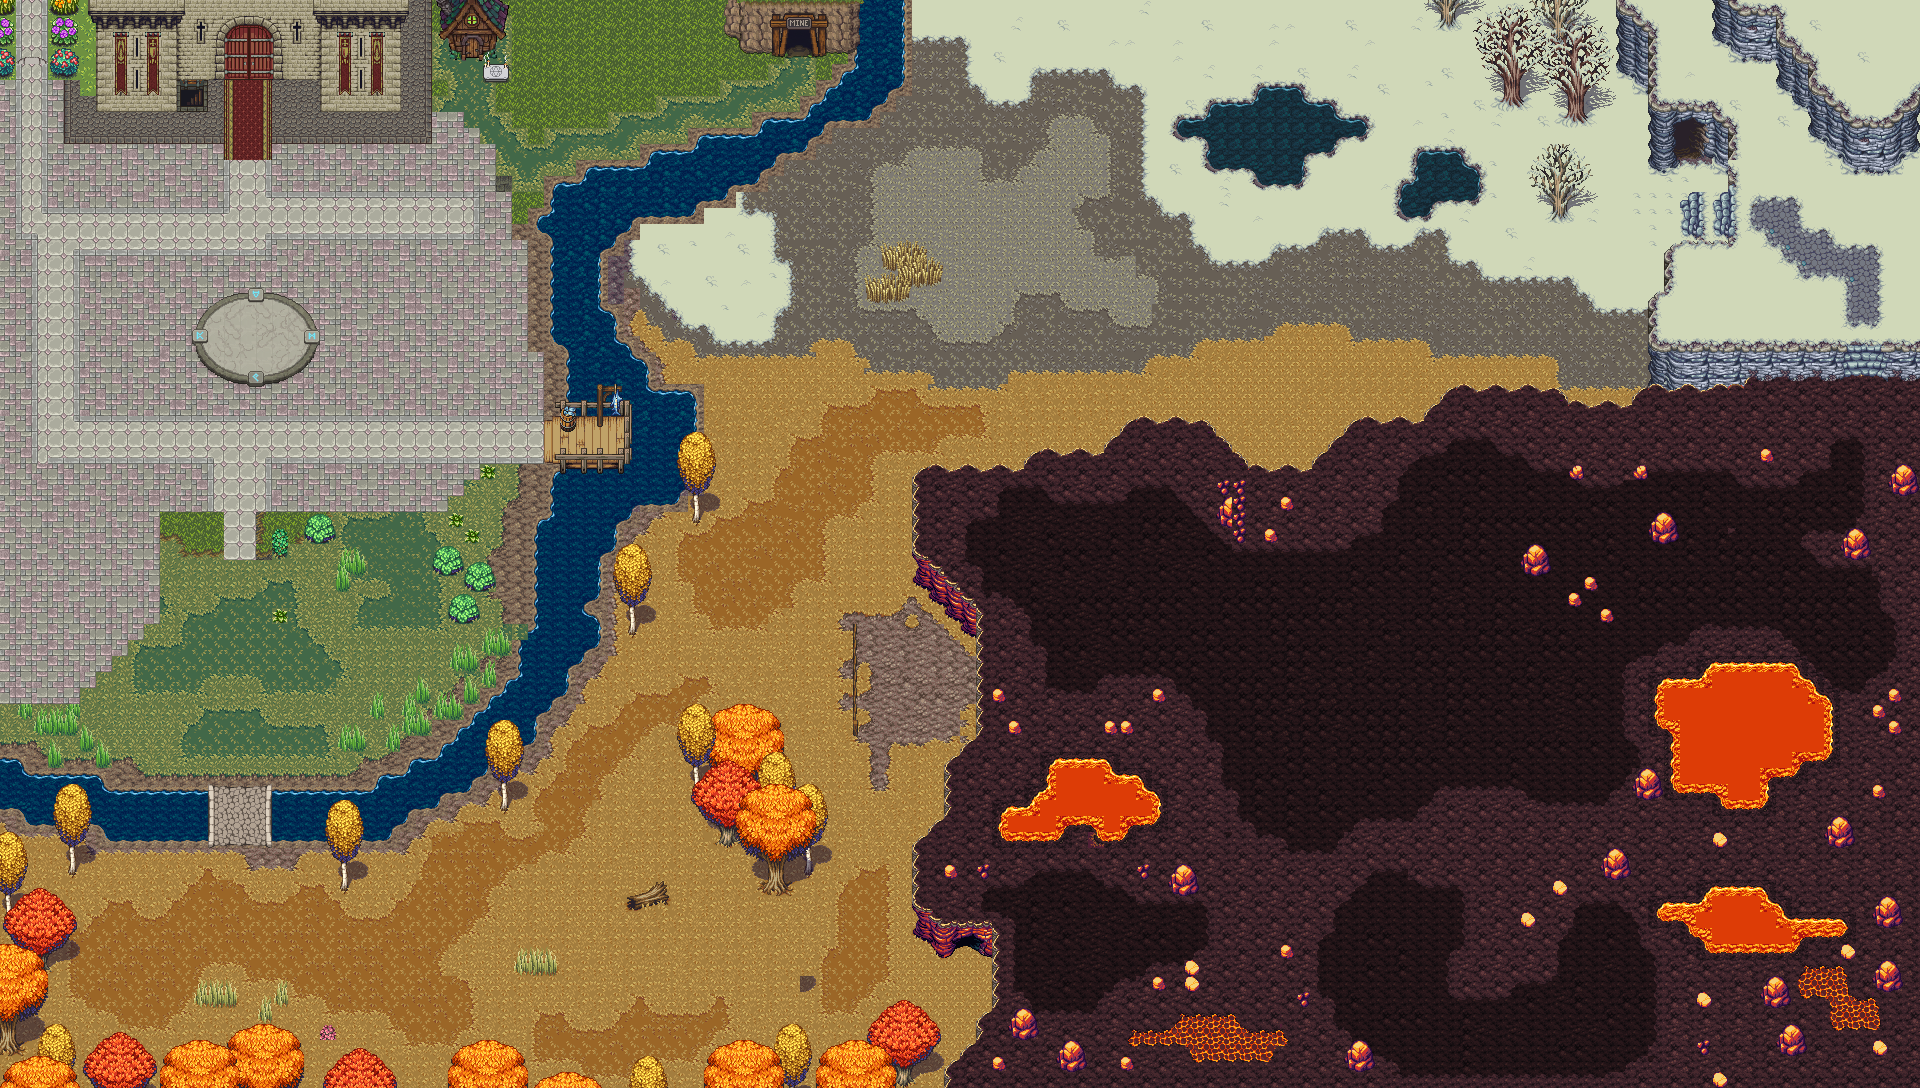
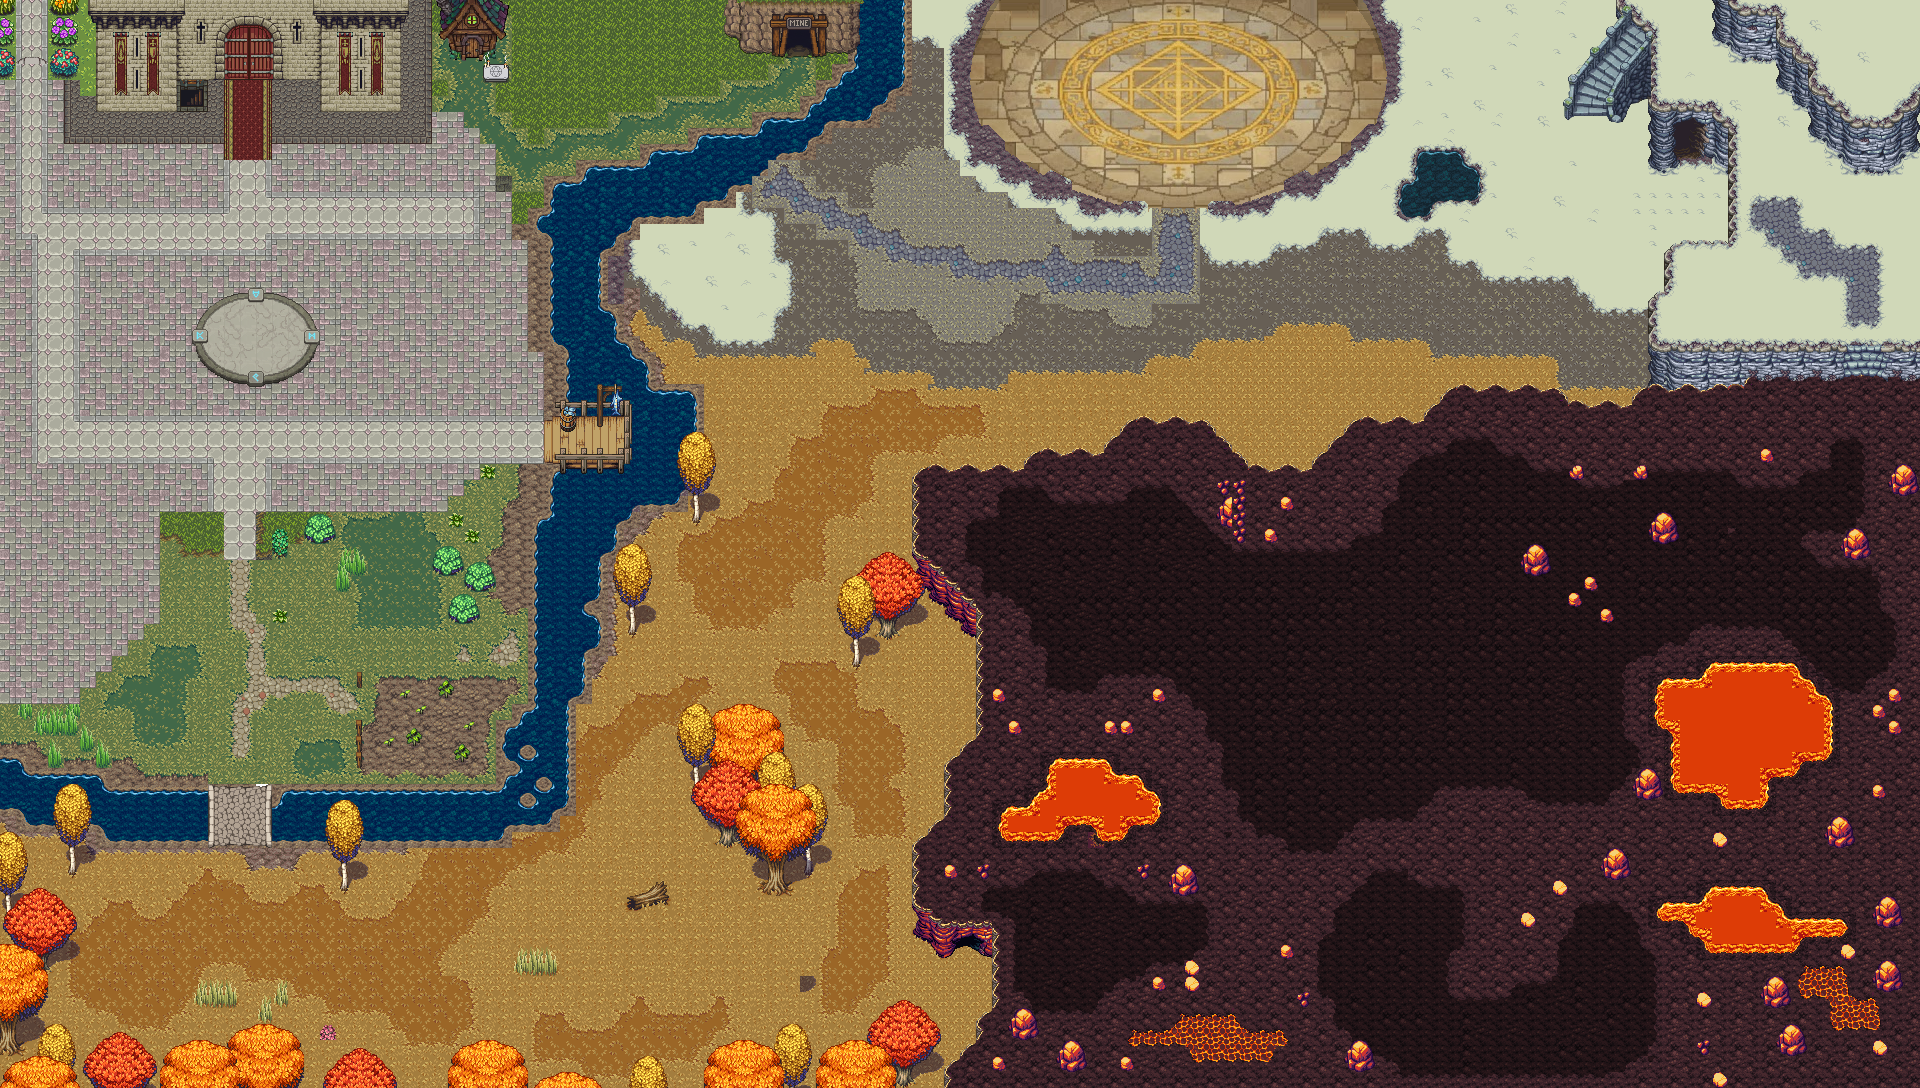
_

diff --git a/Map Design/front.tsx b/Map Design/front.tsx
@@ -1,0 +1,4 @@
+<?xml version="1.0" encoding="UTF-8"?>
+<tileset version="1.10" tiledversion="1.11.2" name="front" tilewidth="16" tileheight="16" tilecount="136" columns="17">
+ <image source="../../../../Downloads/arena/front.png" width="282" height="132"/>
+</tileset>

diff --git a/Map Design/arenaGround.tsx b/Map Design/arenaGround.tsx
@@ -1,0 +1,4 @@
+<?xml version="1.0" encoding="UTF-8"?>
+<tileset version="1.10" tiledversion="1.11.2" name="arenaGround" tilewidth="16" tileheight="16" tilecount="638" columns="29">
+ <image source="../tileset/arenaGround.png" width="469" height="353"/>
+</tileset>

diff --git a/Map Design/plant.tsx b/Map Design/plant.tsx
@@ -1,0 +1,4 @@
+<?xml version="1.0" encoding="UTF-8"?>
+<tileset version="1.10" tiledversion="1.11.2" name="plant" tilewidth="16" tileheight="16" tilecount="12" columns="6">
+ <image source="../tileset/plant.png" width="96" height="32"/>
+</tileset>
